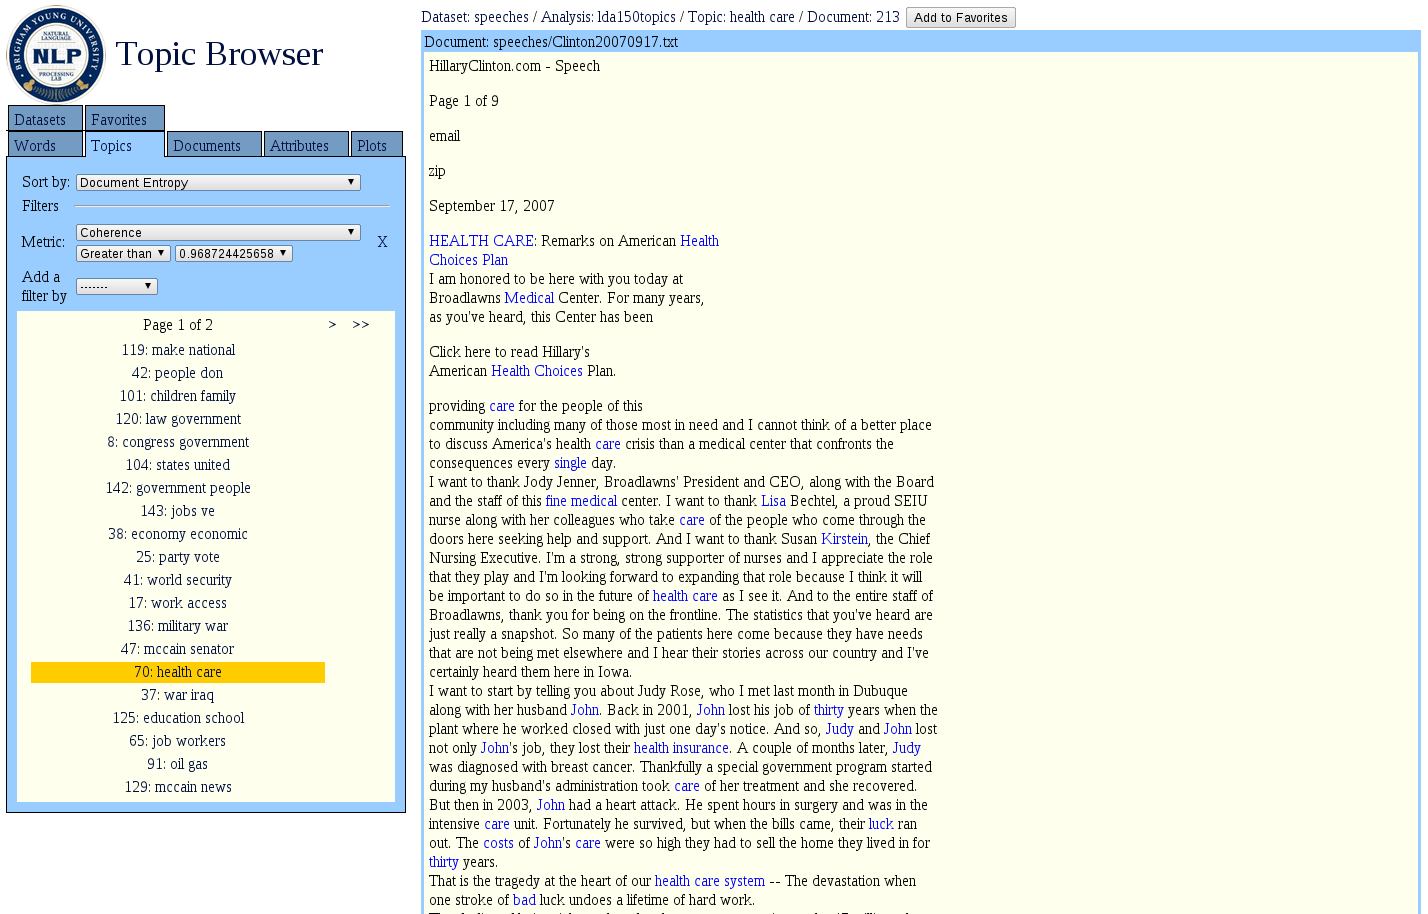
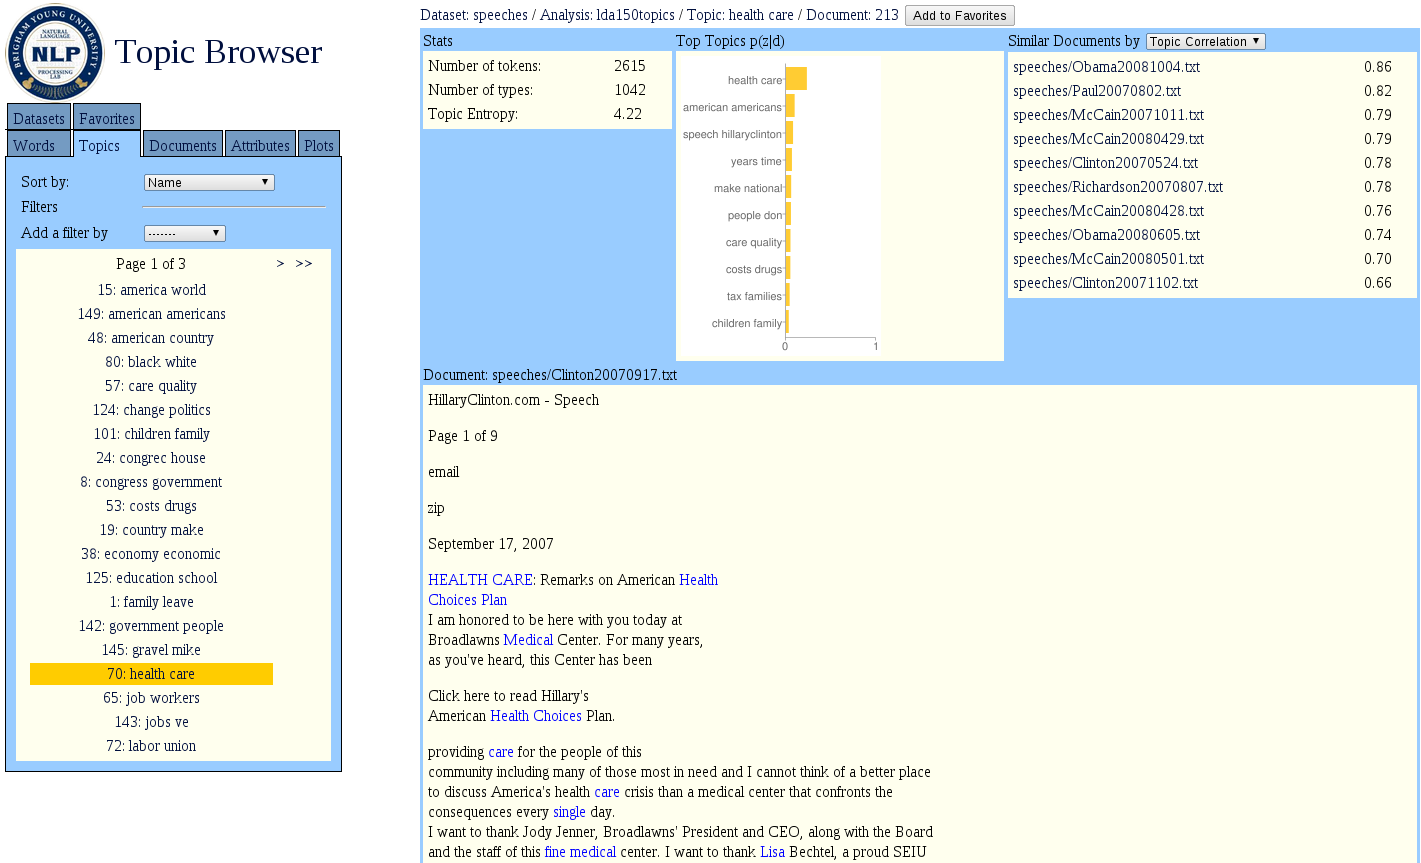
Finished a draft of the browser paper with pictures

Changed region(s): [[0.0, 0.0, 1.0, 1.0]]

diff --git a/masters_thesis/browser_nips/paper.tex b/masters_thesis/browser_nips/paper.tex
@@ -112,11 +112,21 @@ topics he desires to find.
 When browsing through topics, the user can filter the topic list by coherence
 to eliminate from the view topics that are mostly meaningless, and sort by
 document entropy to find topics that were used widely (or narrowly, if that is
-desired) throughout the corpus.  She could also filter by document or
-attribute, seeing only topics that were used in a particular document or by a
-particular author.  Documents can similarly be filtered and sorted, showing
-only documents that contain tokens with a particular topic, or with a
-particular value of an attribute.
+desired) throughout the corpus.  For example, Figure~\ref{fig:sidebar} shows
+that the family was one of the most consistent themes in the speeches.
+
+\begin{figure}
+  \centering
+  \includegraphics[width=.34\textwidth]{sidebar}
+  \caption{The navigational sidebar showing topics sorted by dispersion
+  throughout the corpus and filtered by coherence}
+  \label{fig:sidebar}
+\end{figure}
+
+The user can also filter by document or attribute, seeing only topics that were
+used in a particular document or by a particular author.  Documents can
+similarly be filtered and sorted, showing only documents that contain tokens
+with a particular topic, or with a particular value of an attribute.
 
 \section{Topic Browsing}
 
@@ -146,6 +156,19 @@ inside of their context.  We select a random token of each word type labeled
 with the topic and show up to 50 characters on either side of the token,
 keeping words intact.  We also allow the user to cycle through contexts to gain
 a broader view of how each word is actually used in that topic in the corpus.
+When viewing the topic about troops in Iraq, for example (see
+Figure~\ref{fig:context}), one can see that most often when the word ``troops''
+is used in this topic, it is in reference to bringing the troops home, and when
+``end'' is used, it is not used in the context of ``end the war'' as often as
+one might expect.
+
+\begin{figure}
+  \centering
+  \includegraphics[width=.8\textwidth]{words_in_context}
+  \caption{The top ten words in the topic shown with a random context selected
+  from the corpus.}
+  \label{fig:context}
+\end{figure}
 
 \subsection{Getting More Information}
 
@@ -156,16 +179,36 @@ proportion (by percentage) of the given topic.  This allows the user to quickly
 find documents that best demonstrate what the topic captured.  Showing the top
 values for a given attribute (such as authors for the attribute ``Author'')
 gives the user an idea of how focused the topic is and often gives interesting
-information about the corpus being browsed (for example, in Figure
-\ref{fig:something}, we see that Democrats spoke more often about education
-than Republicans did, at least in the topic shown).
+information about the corpus being browsed.  For example, in Figure
+\ref{fig:top-values}, we see that Democrats spoke more often about education
+than Republicans did, at least in the topic shown.
+
+\begin{figure}
+  \centering
+  \includegraphics[width=\textwidth]{top_values}
+  \caption{Part of the overall topic view, looking at a topic about education.
+  Note particularly the top documents for the topic and the top values for the
+  attribute ``party,'' shown at the bottom.}
+  \label{fig:top-values}
+\end{figure}
 
 The other way that we give more information about topics is by showing similar
 topics.  We find similar topics either by looking at the documents that the
 topics show up in or by the words that the topics use.  Looking at similar
 topics by document shows topics that are commonly used together in the corpus,
 and looking by word shows topics that have similar words, possibly because the
-two topics really should have been one topic.
+two topics really should have been one topic.  When looking at a topic about
+health care, the user can see that other topics used together with the health
+care topic include topics about the cost of medication and the quality of care
+(see Figure~\ref{fig:similar}).
+
+\begin{figure}
+  \centering
+  \includegraphics[width=\textwidth]{similar_topics}
+  \caption{Another look at the overall topic view, featuring different parts of
+  the view.  Note particularly the similar topics box near the top right.}
+  \label{fig:similar}
+\end{figure}
 
 \section{Document, Word, and Attribute Browsing}
 
@@ -179,26 +222,58 @@ methods on the list of documents, as mentioned previously.  When looking at a
 particular document, we show basic information about the document, its text,
 the topic distribution in the document, and similar documents based on that
 distribution.  When looking at the document in the context of a topic, we also
-highlight the tokens in the document that were labeled with that topic.  All of
-this has been done previously, aside from the sorting and filtering of the
-documents, and in fact constitutes the entirety of most previous corpus
-browsers based on topic models---this functionality is all that is generally
-provided.
+highlight the tokens in the document that were labeled with that topic.  For
+example, the user might be curious to see a document that best demonstrates the
+health care topic mentioned above.  Clicking on the top document in the document list brings the user to the view shown in Figure~\ref{fig:document}.
+
+\begin{figure}
+  \centering
+  \includegraphics[width=\textwidth]{document}
+  \caption{The document view, looking at a speech by Hillary Clinton in the
+  context of a topic about health care (the rest of the document is cut off in
+  this screenshot).}
+  \label{fig:document}
+\end{figure}
+
+These document visualizations been done previously, and in fact the view in
+Figure~\ref{fig:document} constitutes the entirety of most previous corpus
+browsers based on topic models.  This functionality is all that is generally
+provided in other browsers, though it is just a small part of ours.
 
 We also provide views of individual words in the corpus.  When viewing a word
 in the context of a topic, the user can see all uses of the word in that topic
 in the corpus, with context taken from their corresponding documents.  The user
 can also view words independently with a search-like interface, seeing topics
-and documents in which the word appears most frequently.  While providing basic
-functionality, however, the search interface leaves much to be desired, as only
-single words can currently be searched for.  We plan on expanding that to
-phrases.
+and documents in which the word appears most frequently.  The user examining
+the health care topic might be curious where else the word ``health'' was used
+in the topics and the corpus.  Figure~\ref{fig:word} shows the result of using
+our word search to answer that question.  While providing basic functionality,
+however, the search interface leaves much to be desired, as only single words
+can currently be searched for.  We plan on expanding that to phrases.
+
+\begin{figure}
+  \centering
+  \includegraphics[width=.72\textwidth]{word}
+  \caption{The word search functionality, showing the results for searching for
+  the word ``health.''}
+  \label{fig:word}
+\end{figure}
 
 The user can also look at aggregated information for values of an attribute
 (i.e., a particular author or year in the documents), combining all of the
 topic and word counts for all documents with the given attribute.  This view is
 also at present somewhat limited, showing only what topics and words are used
 most frequently by the collection of documents with that attribute.
+Figure~\ref{fig:attribute} shows us, among other things, that one of Barack
+Obama's top topics was change in politics.
+
+\begin{figure}
+  \centering
+  \includegraphics[width=\textwidth]{attribute}
+  \caption{The attribute view, showing aggregated information for all speeches
+  given by Barack Obama.}
+  \label{fig:attribute}
+\end{figure}
 
 \section{Plots}
 
@@ -209,7 +284,18 @@ of plot has been used in visualizing topic models almost since their
 introduction~\cite{griffiths-2004-finding-scientific-topics}.  Our topic
 browser allows the user to interactively generate these trend plots over any
 attribute for any topic or combination of topics of the documents in the
-corpus.
+corpus.  Our user exploring health care topics may want to view how much each
+candidate spoke about health care.  We saw already that there were three
+related topics that mentioned health care, so the user views all of them
+together in a histogram, shown in Figure~\ref{fig:trend-plot}
+
+\begin{figure}
+  \centering
+  \includegraphics[width=\textwidth]{trend_plot}
+  \caption{A plot of topics over attributes, showing the use of three health
+  care-related topics across candidates.}
+  \label{fig:trend-plot}
+\end{figure}
 
 The second kind of plot that we include is more useful for analyzing and
 understanding the behavior of the topic model itself.  We allow the user to
@@ -219,7 +305,24 @@ such as the fact that document entropy seems to correlate with the logarithm of
 the number of tokens in the topic, and that coherence does not seem to
 correlate with any other topic metric.  The user can also find outliers, such
 as topics with low document entropy but a high token count, that can then be
-examined in the topic page. (TODO: use Obama vs. McCain as example here)
+examined in the topic page.
+
+An interesting application of these topic metric plots occurs when the metrics
+include how consistently each candidate spoke about each topic.
+Figure~\ref{fig:metric-plot} shows a plot of topics, comparing John McCain's
+use of the topic to Barack Obama's use of the topic.  Topics in the upper left
+were topics unique to Obama, and topics in the lower right were unique to
+McCain.  Topics in the middle (near the value of 2 for each candidate) were
+somewhat shared between the two.
+
+\begin{figure}
+  \centering
+  \includegraphics[width=\textwidth]{metric_plot}
+  \caption{A topic metric comparison plot.  The metrics used were how
+  consistently Barack Obama and John McCain used each topic. The plot shows
+  topics that were unique to Obama or McCain and topics they shared.}
+  \label{fig:metric-plot}
+\end{figure}
 
 \section{Conclusion}
 
